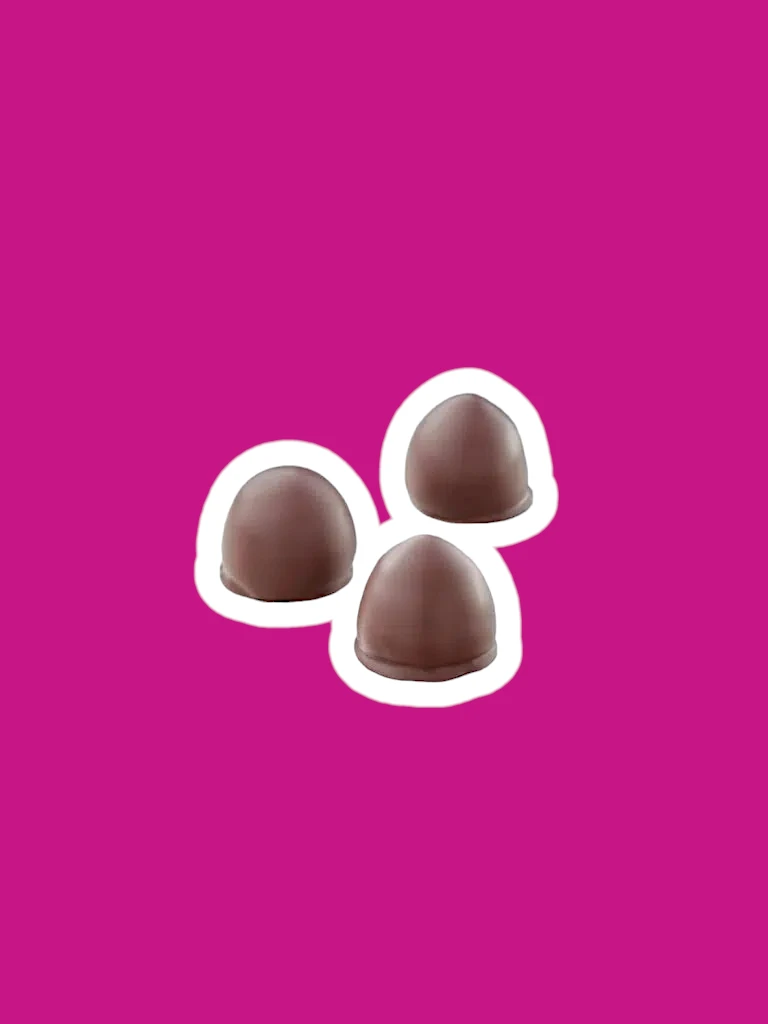
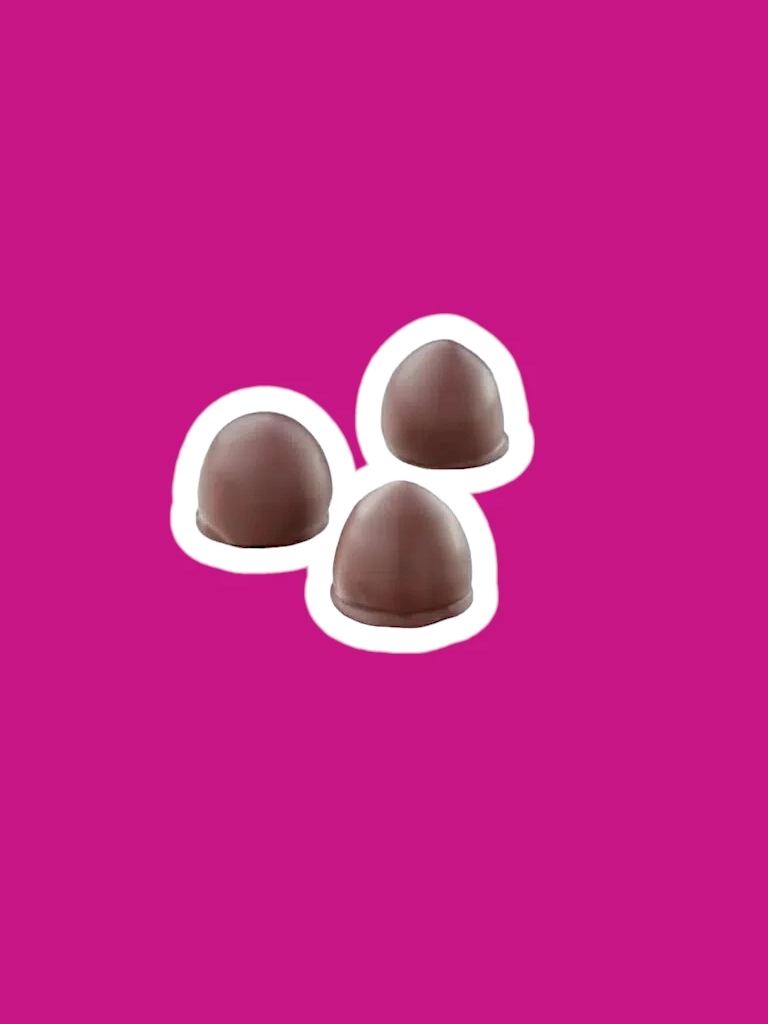
Add container for choc image in chocolates.html

Changed region(s): [[0.2188, 0.2812, 0.75, 0.7188]]

diff --git a/chocolates/templates/chocolates/chocolates.html b/chocolates/templates/chocolates/chocolates.html
@@ -78,10 +78,12 @@
 
                         <!-- Card image -->
                         {% if chocolate.choc_image %}
-                        <a href="{% url 'chocolate_detail' chocolate.id %}">
-                            <img class="card-img-top img-fluid rounded-2" src="{{ chocolate.choc_image.url }}"
-                                alt="{{ chocolate.choc_name }}">
-                        </a>
+                        <div id="choc-image-container">
+                            <a href="{% url 'chocolate_detail' chocolate.id %}">
+                                <img class="card-img-top img-fluid rounded-2" src="{{ chocolate.choc_image.url }}"
+                                    alt="{{ chocolate.choc_name }}">
+                            </a>
+                        </div>
                         {% else %}
                         <a href="{% url 'chocolate_detail' chocolate.id %}">
                             <img class="card-img-top img-fluid rounded-2" src="{{ MEDIA_URL }}noimage.webp"

diff --git a/static/css/base.css b/static/css/base.css
@@ -131,12 +131,6 @@ link to code is here https://codepen.io/kanishkkunal/pen/obGojO */
     width: fit-content;
 }
 
-/* Button styling to ensure consistency
-.shop-now-button {
-    background: black;
-    color: white;
-    min-width: 260px;
-} */
 
 /* Purple button styling to ensure consistency */
 .btn-purple {
@@ -182,6 +176,14 @@ link to code is here https://codepen.io/kanishkkunal/pen/obGojO */
     z-index: -1;
 }
 
+/* Used to create a container for the chocolate image in chocolates.html */
+#choc-image-container {
+    height: auto;
+    width: auto;
+    border-radius: 15px;
+    overflow: hidden;
+    box-shadow: 0 0px 10px #ed82ed;
+}
 
 
 /* Free Delivery banner */

diff --git a/cart/templates/cart/cart.html b/cart/templates/cart/cart.html
@@ -83,7 +83,7 @@
                                             </button>
                                         </div>
     
-                                        <input class="form-control qty_input" type="number" name="quantity" value="{{ item.quantity }}"
+                                        <input class="form-control qty_input text-center" type="number" name="quantity" value="{{ item.quantity }}"
                                             min="1" max="99" data-item_id="{{ item.item_id }}"
                                             id="id_qty_{{ item.item_id }}">
     
